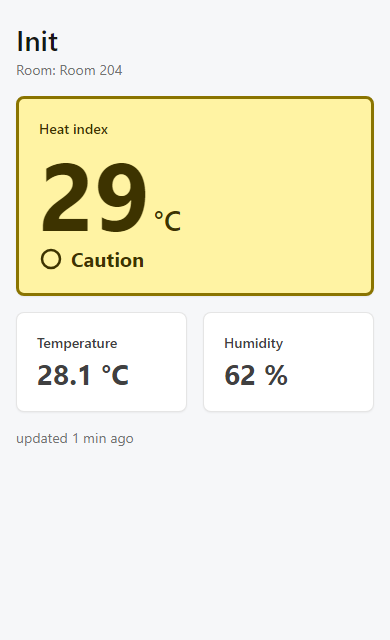
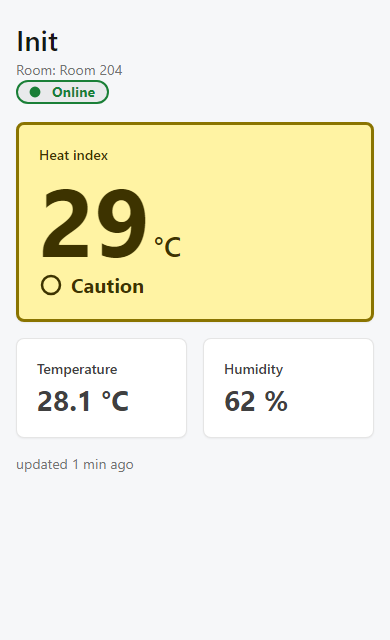
s16: P04-03 offline badge built (tests first, UI gate), UNVERIFIED: not deployed

Changed region(s): [[0.0308, 0.125, 0.9846, 0.75]]

diff --git a/tests/ui-gate-badge.test.js b/tests/ui-gate-badge.test.js
@@ -1,0 +1,83 @@
+// UI-GATE for the online/offline badge (P04-03, D-016): the built page must match the owner-approved screenshots in
+// design/offline-badge/ref/ for online, offline (12 min, 3 h) and no readings, phone width, light and dark.
+// The fake Supabase answer carries received_at set to the age drawn in each mock. Needs `npm install` in web/ and Chromium.
+import test from 'node:test';
+import assert from 'node:assert/strict';
+import http from 'node:http';
+import { spawnSync } from 'node:child_process';
+import { readFileSync, existsSync } from 'node:fs';
+import path from 'node:path';
+import { fileURLToPath } from 'node:url';
+import { chromium } from 'playwright';
+import { diffImages, loadApproved } from '../design/ui-gate.mjs';
+
+const root = path.resolve(path.dirname(fileURLToPath(import.meta.url)), '..');
+const dist = path.join(root, 'web', 'dist');
+const refs = path.join(root, 'design', 'offline-badge', 'ref');
+const headers = JSON.parse(readFileSync(path.join(root, 'web', 'vercel.json'), 'utf8')).headers[0].headers;
+const MIME = { '.html': 'text/html', '.js': 'text/javascript', '.css': 'text/css' };
+
+// What each approved mock shows (design/offline-badge/build-mocks.mjs). ageS = age of the newest reading; null = no row at all.
+const STATES = {
+  'online': { ageS: 0, hi: '40.2', temp: '32.5', rh: '66.0' },
+  'offline-12min': { ageS: 12 * 60, hi: '40.2', temp: '32.5', rh: '66.0' },
+  'offline-3h': { ageS: 3 * 3600, hi: '29.1', temp: '28.1', rh: '62.0' },
+  'no-readings': { ageS: null },
+};
+
+let browser, server, base;
+test.before(async () => {
+  const b = spawnSync('npm run build', { cwd: path.join(root, 'web'), shell: true, encoding: 'utf8' });
+  assert.equal(b.status, 0, `web build failed:\n${b.stdout}\n${b.stderr}`);
+  server = http.createServer((q, r) => {
+    const f = path.join(dist, q.url === '/' ? 'index.html' : decodeURIComponent(q.url.split('?')[0]));
+    if (!f.startsWith(dist) || !existsSync(f)) { r.writeHead(404); return r.end(); }
+    const h = { 'content-type': MIME[path.extname(f)] || 'application/octet-stream' };
+    for (const x of headers) h[x.key] = x.value;
+    r.writeHead(200, h); r.end(readFileSync(f));
+  });
+  await new Promise((ok) => server.listen(0, '127.0.0.1', ok));
+  base = `http://127.0.0.1:${server.address().port}/`;
+  browser = await chromium.launch();
+});
+test.after(async () => { await browser?.close(); server?.close(); });
+
+// Open the page with a fake Supabase answer; returns the decoded full-page screenshot and what the browser complained about.
+async function shootPage(state, theme, mutate) {
+  const ctx = await browser.newContext({ viewport: { width: 390, height: 640 }, colorScheme: theme, reducedMotion: 'reduce', deviceScaleFactor: 1 });
+  try {
+    const page = await ctx.newPage();
+    const problems = [];
+    page.on('console', (m) => problems.push(`${m.type()}: ${m.text()}`));
+    page.on('pageerror', (e) => problems.push(`pageerror: ${e.message}`));
+    await page.route('**/rest/v1/readings*', (route) => {
+      const s = STATES[state];
+      const at = s.ageS === null ? null : new Date(Date.now() - s.ageS * 1000).toISOString();
+      route.fulfill({ contentType: 'application/json', body: JSON.stringify(at === null ? [] : [{ recorded_at: at, received_at: at, temp_c: s.temp, rh_pct: s.rh, heat_index_c: s.hi, room: 'Room 204' }]) });
+    });
+    await page.goto(base, { waitUntil: 'networkidle' });
+    await page.waitForSelector('.status');
+    if (mutate) await mutate(page);
+    const shot = decodeShot(await page.screenshot({ fullPage: true }));
+    return { shot, problems };
+  } finally { await ctx.close(); }
+}
+const decodeShot = (buf) => loadApproved(buf);
+const approved = (state, theme) => loadApproved(readFileSync(path.join(refs, `${state}-phone-${theme}.png`)));
+
+for (const theme of ['light', 'dark']) {
+  for (const state of Object.keys(STATES)) {
+    test(`badge states match the approved image: ${state}, ${theme}`, async () => {
+      const { shot, problems } = await shootPage(state, theme);
+      const r = diffImages(approved(state, theme), shot);
+      assert.equal(r.sameSize, true, 'the page has another size than the approved image');
+      assert.equal(r.differing, 0, `${r.differing} pixels differ (${(r.ratio * 100).toFixed(2)} %)`);
+      assert.deepEqual(problems, [], 'the browser reported problems (console, CSP)');
+    });
+  }
+}
+
+test('the gate fails when the badge shows the wrong state (offline drawn as online)', async () => {
+  const { shot } = await shootPage('offline-12min', 'light', (p) => p.evaluate(() => { const e = document.querySelector('.status'); e.className = 'status status-online'; e.lastChild.textContent = 'Online'; }));
+  assert.ok(diffImages(approved('offline-12min', 'light'), shot).differing > 0);
+});

diff --git a/tests/web-lib.test.js b/tests/web-lib.test.js
@@ -27,7 +27,7 @@ test('ageText: a time slightly in the future (clock skew) is "just now"; junk is
 
 test('readingView: units, one decimal for temperature, whole degrees for the heat index (D-019)', () => {
   const v = readingView({ temp_c: '29.5', rh_pct: '71.0', heat_index_c: '34.1', recorded_at: ago(120), room: 'Room 1' }, T);
-  assert.deepEqual(v, { room: 'Room 1', temp: '29.5 °C', rh: '71 %', heatIndex: '34', category: 'extreme-caution', updated: 'updated 2 min ago' });
+  assert.deepEqual(v, { room: 'Room 1', temp: '29.5 °C', rh: '71 %', heatIndex: '34', category: 'extreme-caution', label: 'Heat index', updated: 'updated 2 min ago' });
 });
 
 test('readingView: numbers may arrive as numbers; rounds half up like the OLED', () => {
@@ -54,4 +54,44 @@ test('readingView: no row yet gives a clear message, not a crash', () => {
   assert.equal(readingView(null, T).updated, 'no readings yet');
   assert.equal(readingView(undefined, T).temp, '—');
   assert.equal(readingView(null, T).category, null);
+});
+
+// P04-03: online/offline badge (F-03). Offline = newest reading more than 3 min old by the SERVER's clock (received_at).
+import { deviceStatus, durationText } from '../web/src/lib.js';
+const rowAt = (s, extra = {}) => ({ temp_c: 30, rh_pct: 60, heat_index_c: 40, recorded_at: ago(s), received_at: ago(s), room: 'R', ...extra });
+
+test('durationText: min, h, days with no "ago"', () => {
+  assert.equal(durationText(ago(12 * 60), T), '12 min');
+  assert.equal(durationText(ago(3 * 3600 + 600), T), '3 h');
+  assert.equal(durationText(ago(86400), T), '1 day');
+  assert.equal(durationText(ago(3 * 86400), T), '3 days');
+});
+
+test('deviceStatus: online up to and including 3 min, offline after', () => {
+  assert.deepEqual(deviceStatus(rowAt(0), T), { kind: 'online', text: 'Online' });
+  assert.equal(deviceStatus(rowAt(180), T).kind, 'online');
+  assert.deepEqual(deviceStatus(rowAt(181), T), { kind: 'offline', text: 'Offline: no reading for 3 min' });
+  assert.equal(deviceStatus(rowAt(12 * 60), T).text, 'Offline: no reading for 12 min');
+  assert.equal(deviceStatus(rowAt(3 * 3600), T).text, 'Offline: no reading for 3 h');
+});
+
+test('deviceStatus: uses received_at (server clock), not the device clock; falls back to recorded_at', () => {
+  assert.equal(deviceStatus(rowAt(0, { recorded_at: ago(86400) }), T).kind, 'online');
+  assert.equal(deviceStatus(rowAt(0, { received_at: ago(900) }), T).kind, 'offline');
+  const noReceived = rowAt(600); delete noReceived.received_at;
+  assert.equal(deviceStatus(noReceived, T).kind, 'offline');
+});
+
+test('deviceStatus: no row means waiting; an unreadable time never claims online', () => {
+  assert.deepEqual(deviceStatus(null, T), { kind: 'wait', text: 'Waiting for the first reading' });
+  assert.equal(deviceStatus(rowAt(0, { received_at: 'junk', recorded_at: 'junk' }), T).kind, 'offline');
+});
+
+test('readingView: offline changes the label and the line below; online keeps them', () => {
+  assert.equal(readingView(rowAt(60), T).label, 'Heat index');
+  assert.equal(readingView(rowAt(60), T).updated, 'updated 1 min ago');
+  const off = readingView(rowAt(12 * 60), T);
+  assert.equal(off.label, 'Last heat index');
+  assert.equal(off.updated, 'last reading 12 min ago');
+  assert.equal(readingView(null, T).label, 'Heat index');
 });

diff --git a/web/src/App.jsx b/web/src/App.jsx
@@ -2,7 +2,7 @@
 // Markup and classes match design/home-cards/*.html (the approved design).
 import { useEffect, useState } from 'react';
 import { SUPABASE_URL, SUPABASE_ANON_KEY } from './config.js';
-import { readingView } from './lib.js';
+import { readingView, deviceStatus } from './lib.js';
 import { CATEGORY_LABEL } from './category.js';
 
 const REFRESH_MS = 30000;
@@ -17,12 +17,19 @@ const SHAPES = {
 };
 
 async function latestReading() {
-  const url = `${SUPABASE_URL}/rest/v1/readings?select=recorded_at,temp_c,rh_pct,heat_index_c,room&order=recorded_at.desc&limit=1`;
+  const url = `${SUPABASE_URL}/rest/v1/readings?select=recorded_at,received_at,temp_c,rh_pct,heat_index_c,room&order=recorded_at.desc&limit=1`;
   const res = await fetch(url, { headers: { apikey: SUPABASE_ANON_KEY, Authorization: `Bearer ${SUPABASE_ANON_KEY}` } });
   if (!res.ok) throw new Error(`HTTP ${res.status}`);
   const rows = await res.json();
   return rows[0] || null;
 }
+
+// F-03 badge icons: filled dot (online), ring with a cross (offline), clock (waiting). Same as the approved design.
+const STATUS_ICON = {
+  online: <circle className="dot" cx="12" cy="12" r="6" />,
+  offline: <><circle cx="12" cy="12" r="9" /><path d="M8 8l8 8M16 8l-8 8" /></>,
+  wait: <><circle cx="12" cy="12" r="9" /><path d="M12 7v5l3 2" /></>,
+};
 
 // Follow the phone's light or dark setting (Tabler switches colours on this attribute).
 function useColorScheme() {
@@ -38,14 +45,16 @@ function useColorScheme() {
 export default function App() {
   useColorScheme();
   const [view, setView] = useState({ ...readingView(undefined, Date.now()), updated: 'loading…' });
+  const [status, setStatus] = useState(null); // null until the first answer, so no badge flashes before we know
   const [failed, setFailed] = useState(false);
 
   useEffect(() => {
     let alive = true;
     const refresh = async () => {
       try {
-        const v = readingView(await latestReading(), Date.now());
-        if (alive) { setView(v); setFailed(false); }
+        const row = await latestReading();
+        const now = Date.now();
+        if (alive) { setView(readingView(row, now)); setStatus(deviceStatus(row, now)); setFailed(false); }
       } catch {
         if (alive) setFailed(true);
       }
@@ -61,10 +70,15 @@ export default function App() {
       <header className="app-head">
         <h1 className="app-title">Init</h1>
         <p className="text-secondary">Room: {view.room}</p>
+        {status && (
+          <p className={`status status-${status.kind}`} role="status">
+            <svg viewBox="0 0 24 24" aria-hidden="true">{STATUS_ICON[status.kind]}</svg>{status.text}
+          </p>
+        )}
       </header>
       <section className={`card heat${cat ? ` heat-${cat}` : ''}`} aria-label="Heat index">
         <div className="card-body">
-          <p className="app-label">Heat index</p>
+          <p className="app-label">{view.label}</p>
           <p className="heat-num">{view.heatIndex}{view.heatIndex !== '—' && <span className="heat-unit">°C</span>}</p>
           {cat && (
             <p className="heat-cat">

diff --git a/web/src/lib.js b/web/src/lib.js
@@ -16,17 +16,38 @@ export function ageText(recordedAt, nowMs) {
   return d === 1 ? '1 day ago' : `${d} days ago`;
 }
 
+// Same age, without "ago" ("12 min"), for the offline badge.
+export function durationText(recordedAt, nowMs) {
+  return ageText(recordedAt, nowMs).replace(/ ago$/, '');
+}
+
+// F-03: the device counts as offline when its newest reading is more than 3 min old (3 missed 60 s uploads, owner approved
+// the badge s16). Age comes from received_at (the server's clock, so a wrong device clock cannot fake "online").
+export const OFFLINE_AFTER_S = 180;
+export function deviceStatus(row, nowMs) {
+  if (!row) return { kind: 'wait', text: 'Waiting for the first reading' };
+  const at = row.received_at || row.recorded_at;
+  const t = Date.parse(at);
+  if (Number.isNaN(t) || (nowMs - t) / 1000 > OFFLINE_AFTER_S) {
+    return { kind: 'offline', text: `Offline: no reading for ${durationText(at, nowMs)}` };
+  }
+  return { kind: 'online', text: 'Online' };
+}
+
 // One row of the readings table (as the REST API returns it) turned into the words shown on the page.
 // Numbers may arrive as strings (Postgres numeric). The heat index is shown in whole degrees (D-019); `heatIndex` is the
 // bare number because the card draws the unit next to it. `category` is null when there is no row or no usable number.
 export function readingView(row, nowMs) {
-  if (!row) return { room: '—', temp: '—', rh: '—', heatIndex: '—', category: null, updated: 'no readings yet' };
+  if (!row) return { room: '—', temp: '—', rh: '—', heatIndex: '—', category: null, label: 'Heat index', updated: 'no readings yet' };
+  const offline = deviceStatus(row, nowMs).kind === 'offline';
+  const at = row.received_at || row.recorded_at;
   return {
     room: row.room || '—',
     temp: `${Number(row.temp_c).toFixed(1)} °C`,
     rh: `${Math.round(Number(row.rh_pct))} %`,
     heatIndex: row.heat_index_c === null ? '—' : String(Math.round(Number(row.heat_index_c))),
     category: categoryOf(row.heat_index_c),
-    updated: `updated ${ageText(row.recorded_at, nowMs)}`,
+    label: offline ? 'Last heat index' : 'Heat index',
+    updated: offline ? `last reading ${ageText(at, nowMs)}` : `updated ${ageText(row.recorded_at, nowMs)}`,
   };
 }

diff --git a/web/src/app.css b/web/src/app.css
@@ -22,3 +22,11 @@ body { background: var(--init-bg); color: var(--init-text); font-family: system-
 .heat-danger { background: var(--heat-danger-fill); color: var(--heat-danger-text); border-color: var(--heat-danger-border); }
 .heat-extreme-danger { background: var(--heat-extreme-danger-fill); color: var(--heat-extreme-danger-text); border-color: var(--heat-extreme-danger-border); }
 .heat-below-range { background: var(--heat-below-range-fill); color: var(--heat-below-range-text); border-color: var(--heat-below-range-border); }
+
+/* Online/offline badge (F-03): a pill with a shape and words, so colour is never the only cue. Colours from tokens.css. */
+.status { display: inline-flex; align-items: center; gap: 8px; margin: 8px 0 0; padding: 4px 12px 4px 8px; border: 2px solid currentColor; border-radius: 999px; font-size: 14px; font-weight: 700; }
+.status svg { width: 18px; height: 18px; flex: none; fill: none; stroke: currentColor; stroke-width: 2.5; stroke-linecap: round; stroke-linejoin: round; }
+.status-online { color: var(--status-online); }
+.status-offline { color: var(--status-offline); }
+.status-wait { color: var(--status-wait); }
+.status-online svg circle.dot { fill: currentColor; }

diff --git a/design/offline-badge/no-readings.html b/design/offline-badge/no-readings.html
@@ -7,11 +7,10 @@
 <link rel="stylesheet" href="../../web/node_modules/@tabler/core/dist/css/tabler.min.css">
 <link rel="stylesheet" href="../../web/src/tokens.css">
 <link rel="stylesheet" href="../../web/src/app.css">
-<link rel="stylesheet" href="badge.css">
 </head>
 <body>
 <main class="app-wrap">
-  <header class="app-head"><h1 class="app-title">Init</h1><p class="text-secondary">Room: Room 204</p>
+  <header class="app-head"><h1 class="app-title">Init</h1><p class="text-secondary">Room: —</p>
     <p class="status status-wait" role="status"><svg viewBox="0 0 24 24" aria-hidden="true"><circle cx="12" cy="12" r="9"/><path d="M12 7v5l3 2"/></svg>Waiting for the first reading</p></header>
   <section class="card heat" aria-label="Heat index"><div class="card-body">
     <p class="app-label">Heat index</p>

diff --git a/design/home-cards/extreme-caution.html b/design/home-cards/extreme-caution.html
@@ -10,7 +10,8 @@
 </head>
 <body>
 <main class="app-wrap">
-  <header class="app-head"><h1 class="app-title">Init</h1><p class="text-secondary">Room: Room 204</p></header>
+  <header class="app-head"><h1 class="app-title">Init</h1><p class="text-secondary">Room: Room 204</p>
+    <p class="status status-online" role="status"><svg viewBox="0 0 24 24" aria-hidden="true"><circle class="dot" cx="12" cy="12" r="6"/></svg>Online</p></header>
   <section class="card heat heat-extreme-caution" aria-label="Heat index"><div class="card-body">
     <p class="app-label">Heat index</p>
     <p class="heat-num">40<span class="heat-unit">°C</span></p>

diff --git a/design/home-cards/extreme-danger.html b/design/home-cards/extreme-danger.html
@@ -10,7 +10,8 @@
 </head>
 <body>
 <main class="app-wrap">
-  <header class="app-head"><h1 class="app-title">Init</h1><p class="text-secondary">Room: Room 204</p></header>
+  <header class="app-head"><h1 class="app-title">Init</h1><p class="text-secondary">Room: Room 204</p>
+    <p class="status status-online" role="status"><svg viewBox="0 0 24 24" aria-hidden="true"><circle class="dot" cx="12" cy="12" r="6"/></svg>Online</p></header>
   <section class="card heat heat-extreme-danger" aria-label="Heat index"><div class="card-body">
     <p class="app-label">Heat index</p>
     <p class="heat-num">53<span class="heat-unit">°C</span></p>

diff --git a/design/home-cards/below-range.html b/design/home-cards/below-range.html
@@ -10,7 +10,8 @@
 </head>
 <body>
 <main class="app-wrap">
-  <header class="app-head"><h1 class="app-title">Init</h1><p class="text-secondary">Room: Room 204</p></header>
+  <header class="app-head"><h1 class="app-title">Init</h1><p class="text-secondary">Room: Room 204</p>
+    <p class="status status-online" role="status"><svg viewBox="0 0 24 24" aria-hidden="true"><circle class="dot" cx="12" cy="12" r="6"/></svg>Online</p></header>
   <section class="card heat heat-below-range" aria-label="Heat index"><div class="card-body">
     <p class="app-label">Heat index</p>
     <p class="heat-num">24<span class="heat-unit">°C</span></p>

diff --git a/design/home-cards/caution.html b/design/home-cards/caution.html
@@ -10,7 +10,8 @@
 </head>
 <body>
 <main class="app-wrap">
-  <header class="app-head"><h1 class="app-title">Init</h1><p class="text-secondary">Room: Room 204</p></header>
+  <header class="app-head"><h1 class="app-title">Init</h1><p class="text-secondary">Room: Room 204</p>
+    <p class="status status-online" role="status"><svg viewBox="0 0 24 24" aria-hidden="true"><circle class="dot" cx="12" cy="12" r="6"/></svg>Online</p></header>
   <section class="card heat heat-caution" aria-label="Heat index"><div class="card-body">
     <p class="app-label">Heat index</p>
     <p class="heat-num">29<span class="heat-unit">°C</span></p>

diff --git a/design/home-cards/danger.html b/design/home-cards/danger.html
@@ -10,7 +10,8 @@
 </head>
 <body>
 <main class="app-wrap">
-  <header class="app-head"><h1 class="app-title">Init</h1><p class="text-secondary">Room: Room 204</p></header>
+  <header class="app-head"><h1 class="app-title">Init</h1><p class="text-secondary">Room: Room 204</p>
+    <p class="status status-online" role="status"><svg viewBox="0 0 24 24" aria-hidden="true"><circle class="dot" cx="12" cy="12" r="6"/></svg>Online</p></header>
   <section class="card heat heat-danger" aria-label="Heat index"><div class="card-body">
     <p class="app-label">Heat index</p>
     <p class="heat-num">44<span class="heat-unit">°C</span></p>

diff --git a/tests/contrast.test.js b/tests/contrast.test.js
@@ -29,3 +29,9 @@ test('checkTokens reports failures with names', () => {
   assert.ok(failures.some((f) => f.includes('heat x text on fill')));
   assert.ok(failures.some((f) => f.includes('heat x border on light')));
 });
+
+test('checkTokens checks the status (online/offline/waiting) text colours on the page background', () => {
+  const t = { themes: { light: { bg: '#ffffff', text: '#000000' } }, heat: {}, status: { online: { light: '#eeeeee' } } };
+  assert.ok(checkTokens(t).some((f) => f.includes('status online on light bg')));
+  assert.deepEqual(checkTokens({ ...t, status: { online: { light: '#000000' } } }), []);
+});
